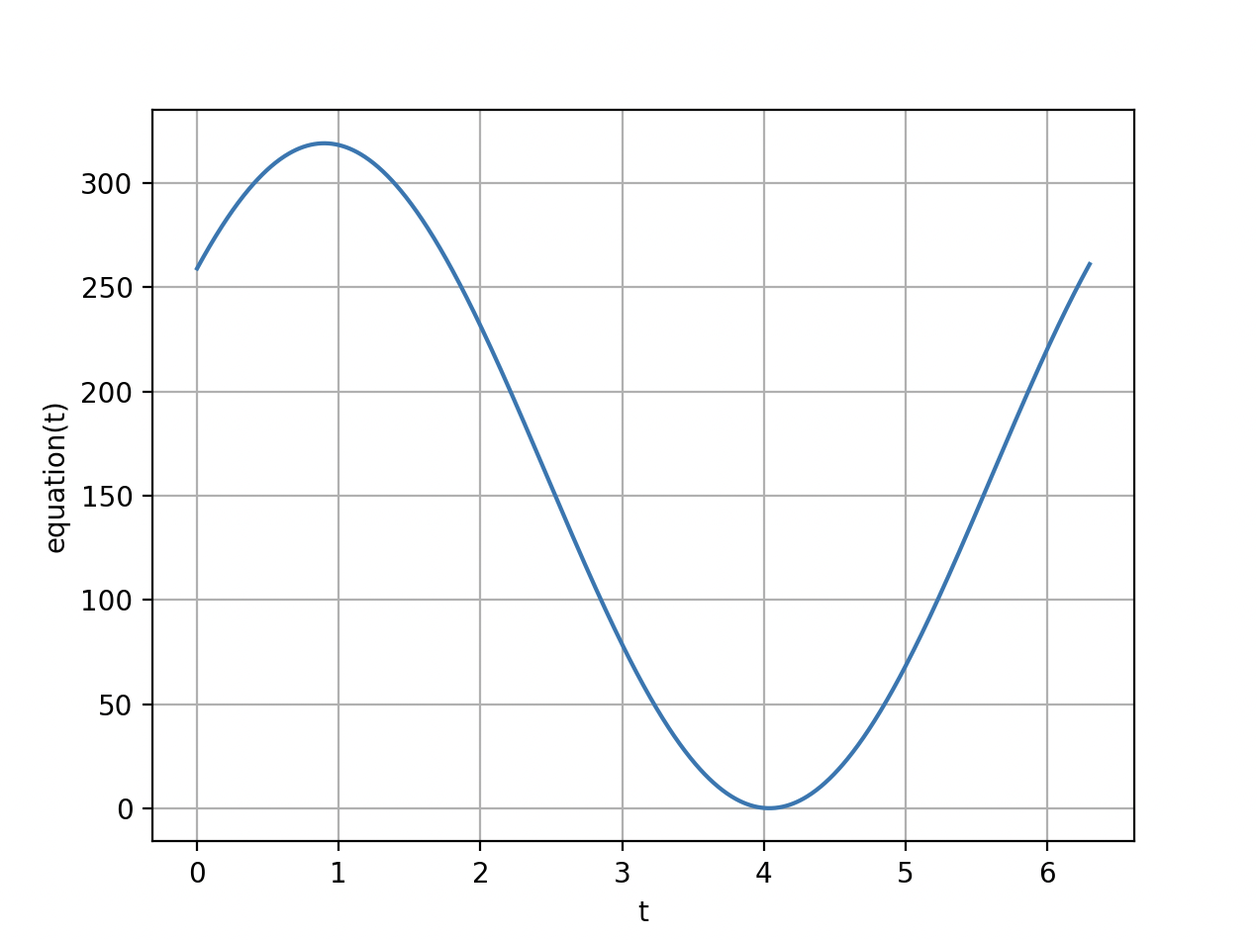
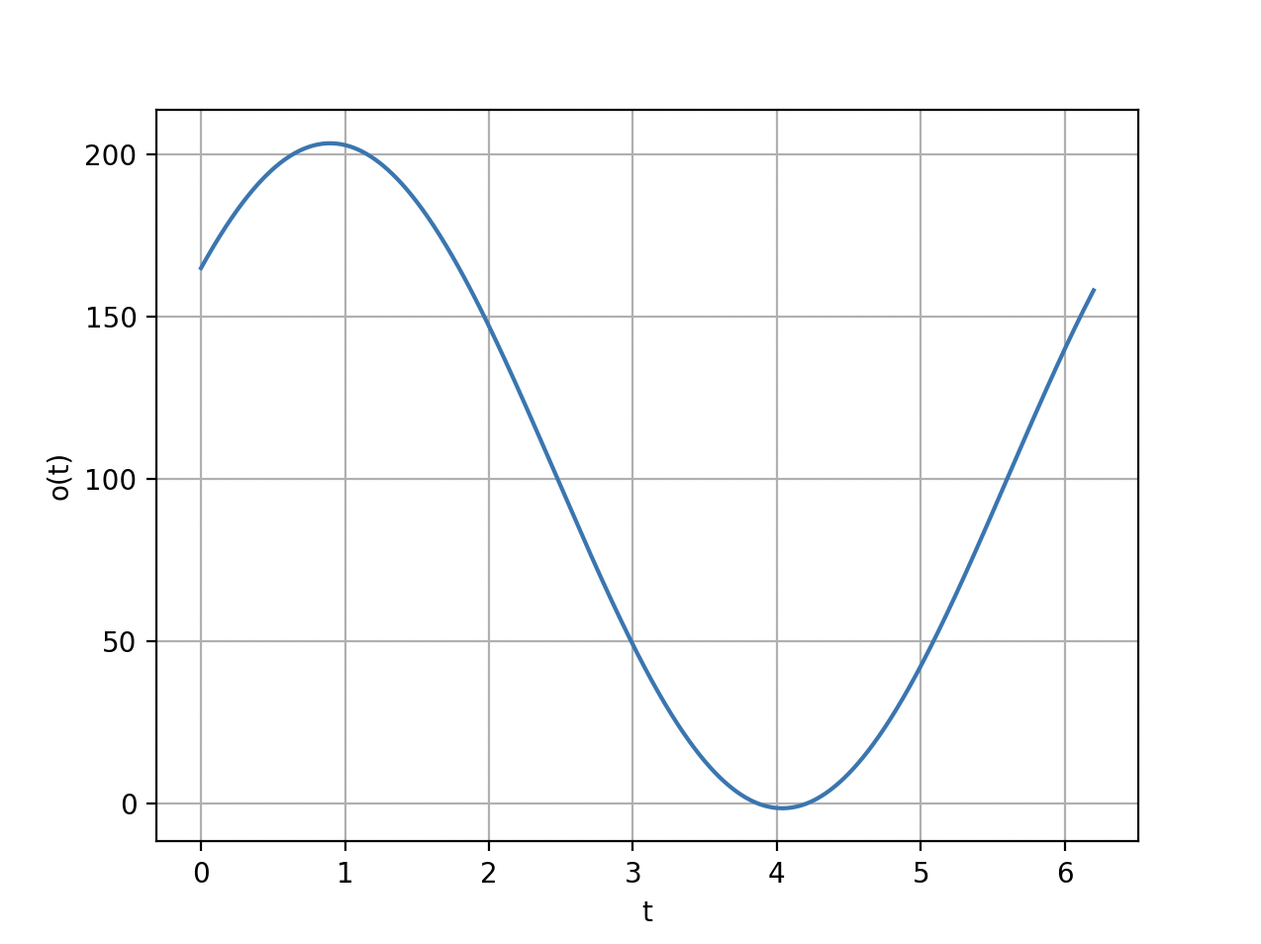
All done

diff --git a/porocilo.tex b/porocilo.tex
@@ -27,29 +27,16 @@
 \newpage
 
 \section{Uvod}
-Algoritem sledenja žarku (\textit{ang. Ray Tracing}) je priljubljen algoritem, uporabljen v 
-računalniški grafiki, ki simulira realistično osvetlitev prizorov. Temelji na ideji sledenja 
-žarka svetlobe po prizoru, izračunavanju njegovega preseka z objekti in odbijanju v drugo smer. 
-Običajno ta algoritem uporabljamo v evklidskem prostoru, saj ta predstavlja resnični svet. 
-Vendar pa lahko algoritem implementiramo tudi v drugih (neevklidskih) prostorih, da dobimo 
-zanimive vizualne rezultate. To bo glavna naloga tega projekta.
+Algoritem sledenja žarku (\textit{ang. Ray Tracing}) je priljubljen algoritem, uporabljen v računalniški grafiki, ki simulira realistično osvetlitev prizorov. Temelji na ideji sledenja žarka svetlobe po prizoru, izračunavanju njegovega preseka z objekti in odbijanju v drugo smer. Običajno ta algoritem uporabljamo v evklidskem prostoru, saj ta predstavlja resnični svet. Vendar pa lahko algoritem implementiramo tudi v drugih (neevklidskih) prostorih, da dobimo zanimive vizualne rezultate. To bo glavna naloga tega projekta.
 
 \section{Cilji}
-Cilj za projektno nalogo, nam je bil narediti program, v katerem se vsak uporabnik (tudi tak, ki 
-ne pozna izvorne kode) lahko vidi razliko med različnimi prostori ki niso evklidski, in 
-jih primerja z evklidskim. Želeli smo si, da bi bilo dodajanje novih prostorov in 
-novih objektov kar se le da enostavno in da na slike nebi bilo potrebno dolgo čakati.
+Cilj za projektno nalogo, nam je bil narediti program, v katerem se vsak uporabnik (tudi tak, ki ne pozna izvorne kode) lahko vidi razliko med različnimi prostori ki niso evklidski, in jih primerja z evklidskim. Želeli smo si, da bi bilo dodajanje novih prostorov in novih objektov kar se le da enostavno in da na slike nebi bilo potrebno dolgo čakati.
 
 
 \section{Sledenje žarkom}
-Predstavljajte si, da ste na vaši najljubši plaži, ki ima razgled na ocean. Ko se ozrete na barko,
-ki potuje proti sončnemu zahodu, boste poleg tega da se barka oddaljuje opazili tudi, da se "pogreza" 
-v tla.
+Predstavljajte si, da ste na vaši najljubši plaži, ki ima razgled na ocean. Ko se ozrete na barko,ki potuje proti sončnemu zahodu, boste poleg tega da se barka oddaljuje opazili tudi, da se "pogreza" v tla.
 
-To je ravno zaradi potovanja žarkov. Ker smo v evklidskem prostoru, bo žarek potoval naravnost in nas 
-zaradi ukrivljenosti Zemlje po določeni razdalji ne bo več dosegel. Sedaj pa si predstavljajmo, 
-da bi lahko barko kljub oddaljevanju še vedno videli celotno. Ta posebna zmožnost bi nam bila 
-omogočena v sferičnem neevklidskem prostoru.
+To je ravno zaradi potovanja žarkov. Ker smo v evklidskem prostoru, bo žarek potoval naravnost in nas zaradi ukrivljenosti Zemlje po določeni razdalji ne bo več dosegel. Sedaj pa si predstavljajmo, da bi lahko barko kljub oddaljevanju še vedno videli celotno. Ta posebna zmožnost bi nam bila omogočena v sferičnem neevklidskem prostoru.
 
 \begin{figure}[H]
     \centering
@@ -58,22 +45,15 @@ omogočena v sferičnem neevklidskem prostoru.
     \label{Slika:Primerjava žarkov evklidski, sferični}
 \end{figure}
 
-Kaj pa pravzaprav je neevklidski prostor? To je prostor, ki ne sledi postulatom evklidske geometrije. 
-Torej prostor ni raven ampak je ukrivljen, vsota kotov v trikotniku je večja ali pa manjša od 
-180 stopinj. Neevklidski prostor delimo na več različnih geometrij med katerimi so 
-hiperbolična geometrija, eliptična geometrija, sferična geometrija, projektivna geometrija itd.
+Kaj pa pravzaprav je neevklidski prostor? To je prostor, ki ne sledi postulatom evklidske geometrije. Torej prostor ni raven ampak je ukrivljen, vsota kotov v trikotniku je večja ali pa manjša od 180 stopinj. Neevklidski prostor delimo na več različnih geometrij med katerimi so hiperbolična geometrija, eliptična geometrija, sferična geometrija, projektivna geometrija itd.
 
 \section{Zasnova projekta in osnovni algoritem sledenja žarkov}
-Želeli smo si načina podajanja objektov in prostorov, ki bi bil dovolj splošen, da lahko brez
-spreminjanja algoritmov dodamo nove.
+Želeli smo si načina podajanja objektov in prostorov, ki bi bil dovolj splošen, da lahko brez spreminjanja algoritmov dodamo nove.
 
 \subsection{Objekti v sceni}
-Posamičen objekt je podan z enačbo, ki sprejme točko v prostoru in vrne vrednost. 
-Enačba je torej oblike
+Posamičen objekt je podan z enačbo, ki sprejme točko v prostoru in vrne vrednost. Enačba je torej oblike
 \[ o(x,y,z): \mathbb{R}^3 \to \mathbb{R} = a \]
-kjer je \(a = 0\) v primeru, da je točka na ploskvi objekta in \( a \neq 0 \) v primeru, da 
-je točka v notranjosti ali zunanjosti objekta.
-Za kroglo s središčem v $(x_{0}, y_{0}, z_{0})$ in polmerom $r$ je to enačba
+kjer je \(a = 0\) v primeru, da je točka na ploskvi objekta in \( a \neq 0 \) v primeru, da je točka v notranjosti ali zunanjosti objekta.Za kroglo s središčem v $(x_{0}, y_{0}, z_{0})$ in polmerom $r$ je to enačba
 \[(x-x_{0})^{2}+(y-y_{0})^{2}+(z-z_{0})^{2}-r^{2}=0, \]
 Za ravnino z normalo \( \vec{n} = [a, b, c]^T \) in točko na ravnini $(x_{0}, y_{0}, z_{0})$ pa:
 \[ ax+by+cz-(ax_0+by_0+cz_0) = 0. \]
@@ -81,17 +61,14 @@ Za ravnino z normalo \( \vec{n} = [a, b, c]^T \) in točko na ravnini $(x_{0}, y
 \subsection{Prostori}
 Vsak prostor implementira funkcijo v obliki
 \[ s_{T, \vec{v}}(t): \mathbb{R} \to \mathbb{R}^3 = [x, y, z]^T \]
-ki vrne točko v prostoru, kjer bi bil žarek, ki gre skozi točko \(T\) v smeri \(\vec{v}\), če 
-ga premaknemo za razdaljo \(t\) po tem prostoru. Na dvodimenzionalni sferi $\mathbb{S}^{2}$ funkcija računa približek, v primeru evklidskega prostora pa je to preprosto premik po premici za korak \(t\)
+ki vrne točko v prostoru, kjer bi bil žarek, ki gre skozi točko \(T\) v smeri \(\vec{v}\), če ga premaknemo za razdaljo \(t\) po tem prostoru. Na dvodimenzionalni sferi $\mathbb{S}^{2}$ funkcija računa približek, v primeru evklidskega prostora pa je to preprosto premik po premici za korak \(t\)
 \[ \vec{T}_{n+1} = \vec{T}_{n} + t \cdot \vec{v} \]
 \bigskip
 \newline
 Sledenje žarkom na ploščatem torusu in dvodimenzionalni sferi sta podrobneje opisana kasneje.
 
 \subsection{Generiranje žarkov}
-Žarek je definiran z začetno točko \(T_{0}\) in enotskim smernim vektorjem \(\vec{v}\) (začetna pozicija in smer). Ker smo si želeli, da 
-širino kadra (ang. Field of View, v nadaljevanju FOV) podamo v stopinjah kota, ki ga kamera vidi po diagonali kadra,
-smo žarke generirali po postopku:
+Žarek je definiran z začetno točko \(T_{0}\) in enotskim smernim vektorjem \(\vec{v}\) (začetna pozicija in smer). Ker smo si želeli, da širino kadra (ang. Field of View, v nadaljevanju FOV) podamo v stopinjah kota, ki ga kamera vidi po diagonali kadra, smo žarke generirali po postopku:
 
 \begin{enumerate}
   \item Vsi žarki imajo začetno točko \(T_{0}\) na poziciji kamere.
@@ -104,16 +81,13 @@ smo žarke generirali po postopku:
   \end{figure}
   \item Izračunamo kot da se premaknemo za eno vrstico pikslov v horizontalni in vertikalni smeri:
   \[\Delta u = \frac{FOV_u}{RES_u};  \Delta v = \frac{FOV_v}{RES_v} \] 
-  kjer sta \(RES_u\) in \(RES_v\) ločljivost slike v pihskih po vertikali in horizontali. 
-  \( \Delta u \) in \( \Delta v \) sta dejansko enaka, ker so piksli kvadratni.
+  kjer sta \(RES_u\) in \(RES_v\) ločljivost slike v pihskih po vertikali in horizontali. \( \Delta u \) in \( \Delta v \) sta dejansko enaka, ker so piksli kvadratni.
   \begin{figure}[H]
     \centering
     \includegraphics[width=0.25\linewidth]{Images/premik_fovu.png}
     \label{Slika:premik_fovu}
   \end{figure}
-  \item Smer žarkov je vektor od pozicije kamere, do točke na enotski sferi z centrom na poziciji kamere. Vsak žarek, 
-  ima azimut \[ v = -FOV_v/2 + j \cdot \Delta v \] in elevacijo \[ u = FOV_u/2 - i \cdot \Delta u \cdot \cos(v) \]
-  kjer je \( i \) številka vrstice in \( j \) številka stolpca piksla katerega barvo računa ta žarek. \newline
+  \item Smer žarkov je vektor od pozicije kamere, do točke na enotski sferi z centrom na poziciji kamere. Vsak žarek, ima azimut \[ v = -FOV_v/2 + j \cdot \Delta v \] in elevacijo \[ u = FOV_u/2 - i \cdot \Delta u \cdot \cos(v) \] kjer je \( i \) številka vrstice in \( j \) številka stolpca piksla katerega barvo računa ta žarek. \newline
   Pri \( u \) smo upoštevali popravek za distorzijo, ki nastane zaradi določanja žarkov s pomočjo sfere.
   \begin{figure}[H]
     \centering
@@ -143,21 +117,17 @@ Postopek nam je omogoči določanje kota kadra v stopinjah in preprosto nastavlj
   \end{minipage}
   \end{figure}
 
-Zgoraj je primerjava slike prostora ploščati torus, kjer je širina kadra ekvivalentna 14mm objektivu. Na levi je 
-prikazana slika, ki ne upošteva popravka za distorzijo (korak 5), na desni pa je slika, ki ga upošteva.
+Zgoraj je primerjava slike prostora ploščati torus, kjer je širina kadra ekvivalentna 14mm objektivu. Na levi je prikazana slika, ki ne upošteva popravka za distorzijo (korak 5), na desni pa je slika, ki ga upošteva.
 
-Opazimo lahko, da so horizontalne črte na desni sliki dejansko horizontalne, medtem ko so na levi sliki 
-ukrivljene. Ker je kader usmerjen za 10 stopinj navzgor, se vertikalne črte na robovih ukrivijo navznoter, 
-kar je pojav, ki se zgodi tudi na pravih kamerah.
+Opazimo lahko, da so horizontalne črte na desni sliki dejansko horizontalne, medtem ko so na levi sliki ukrivljene. Ker je kader usmerjen za 10 stopinj navzgor, se vertikalne črte na robovih ukrivijo navznoter, kar je pojav, ki se zgodi tudi na pravih kamerah.
 
 
 \subsection{Sledenje žarkom}
 Osnovni algoritem sledenja žarkov je sledeč:
 
 \begin{enumerate}
-\item V poljubnem prostoru premikamo žarek s pomočjo enačbe \( s(t) = [x, y, z]^T \) za korak velikosti $h$.
-\item Za vsak objekt, s pomočjo njegove enačbe \( o(x, y, z) = a \) preverimo, če je žarek prešel skozi ploskev 
-objekta (če je \( a \) spremenil predznak).
+\item V poljubnem prostoru premikamo žarek s pomočjo enačbe \( s_{T \vec{v}}(t) = [x, y, z]^T \) za korak velikosti $h$.
+\item Za vsak objekt, s pomočjo njegove enačbe \( o(x, y, z) = a \) preverimo, če je žarek prešel skozi ploskev objekta (če je \( a \) spremenil predznak).
 \item Če je za nek objekt \( a \) spremenil predznak, razpolovimo korak \( h = h/2 \) in ponovimo korak.
 \item Postopek razpolavljanja ponavljamo, dokler korak ni manjši od \( \varepsilon \).
 \end{enumerate}
@@ -170,15 +140,12 @@ objekta (če je \( a \) spremenil predznak).
 \end{figure}
 
 \subsection{Računanje barve piksla}
-Vsak žarek obarvamo z barvo objekta s katerim se je sekal, oziroma črno, če se ni z nobenim. Za senčenje moramo
-poslati še en žarek od presečišča proti luči. 
+Vsak žarek obarvamo z barvo objekta s katerim se je sekal, oziroma črno, če se ni z nobenim. Za senčenje moramo poslati še en žarek od presečišča proti luči. 
 \begin{enumerate}
   \item Poiščemo vektor, ki gre v smeri od presečišča do luči: 
   \[ \vec{v} = \frac{\vec{r}_{l} - \vec{r}_{p}}{||\vec{r}_{l} - \vec{r}_{p}||} \]
   Kjer je \( \vec{r}_{l} \) krajevni vektor luči, \( \vec{r}_{p} \) pa krajevni vektor presečišča.
-\item Če žarek, ki se začne v točki presečišča in gre v smeri \( \vec{v} \), seka kakšen objekt preden 
-    prepotuje razdaljo do luči 
-  \( d = ||\vec{r}_{l} - \vec{r}_{p}||\), potem je presečišče v senci.
+\item Če žarek, ki se začne v točki presečišča in gre v smeri \( \vec{v} \), seka kakšen objekt preden prepotuje razdaljo do luči \( d = ||\vec{r}_{l} - \vec{r}_{p}||\), potem je presečišče v senci.
 \end{enumerate}
 
 
@@ -186,14 +153,9 @@ poslati še en žarek od presečišča proti luči.
 
 V evklidskem prostoru je potovanje žarkov preprosto premik po premici: 
 \[ \vec{T}_{n+1} = \vec{T}_{n} + t \cdot \vec{v} \]
-Žarki potujejo naravnost, kot smo navajeni. Algoritem sledenja žarkov je enak 
-kot v primeru ploščatega torusa, le da žarkov ni potrebno preslikati. 
+Žarki potujejo naravnost, kot smo navajeni. Algoritem sledenja žarkov je enak kot v primeru ploščatega torusa, le da žarkov ni potrebno preslikati. 
 
-Odločili smo se, da bodo žarki od presečišča z objektom do luči potovali kar po evklidskem prostoru. 
-To odločitev smo sprejeli, ker bi bilo v neevklidskih prostorih zelo težko implementirati algoritem, 
-ki žarek pošlje po vseh poteh, ki vodijo do vsaj ene luči. Zadovoljiti bi se morali z algoritmom,
-ki žarke pošilja v razne smeri in upa, da bo vsaj en žarek prišel do luči, če pot do nje obstaja. 
-Implementacija tega predstavlja izboljšavo, ki bi jo lahko dodali v prihodnosti.
+Odločili smo se, da bodo žarki od presečišča z objektom do luči potovali kar po evklidskem prostoru. To odločitev smo sprejeli, ker bi bilo v neevklidskih prostorih zelo težko implementirati algoritem, ki žarek pošlje po vseh poteh, ki vodijo do vsaj ene luči. Zadovoljiti bi se morali z algoritmom,ki žarke pošilja v razne smeri in upa, da bo vsaj en žarek prišel do luči, če pot do nje obstaja. Implementacija tega predstavlja izboljšavo, ki bi jo lahko dodali v prihodnosti.
 
 \begin{figure}[H]
   \centering
@@ -202,8 +164,7 @@ Implementacija tega predstavlja izboljšavo, ki bi jo lahko dodali v prihodnosti
   \label{Slika:Euklidski prostor}
 \end{figure}
 
-Na sceni kamera gleda v krogle obrnjena za 10 stopinj navzgor. Enaka scena 
-bo uprizorjena tudi v drugih prostorih.
+Na sceni kamera gleda v krogle obrnjena za 10 stopinj navzgor. Enaka scena bo uprizorjena tudi v drugih prostorih.
 
 \section{\texorpdfstring{Sledenje žarkom na ploščatem torusu \( \mathbb{T}_{pl}^{3} \)}{Sledenje žarkom na prostoru ploščati torusu}}
 
@@ -286,13 +247,9 @@ Ko program poženemo, dobimo lep vizualni rezultat.
     \caption{Rezultat "ray tracinga" za tri dimenzionalni ploščati torus (500 preslikanj), kjer scena nima ravnine.}
     \label{Slika:Rezultat "ray tracinga" za tri dimenzionalni flat torus}
 \end{figure}
-Na sliki lahko opazimo podoben efekt tistemu v hišah iluzij, ko smo v sobi polni ogledal. Razlika je v tem, 
-da se tu žarki ne odbijejo, temveč "teleportirajo" na drugo stran scene, zato slika ni simetrična. Na levi strani slike 
-lahko opazujemo sceno, kot bi izgledala, če bi jo gledali bolj z desne strani, na desni pa kot da bi jo gledali z leve.
+Na sliki lahko opazimo podoben efekt tistemu v hišah iluzij, ko smo v sobi polni ogledal. Razlika je v tem, da se tu žarki ne odbijejo, temveč "teleportirajo" na drugo stran scene, zato slika ni simetrična. Na levi strani slike lahko opazujemo sceno, kot bi izgledala, če bi jo gledali bolj z desne strani, na desni pa kot da bi jo gledali z leve.
 
-Izrišejo se tudi distinktne črte. Nekateri žarki, ki so kljub velikemu številu preslikavanj
-(v tem primeru 500) še vseeno črni, se ne bodo nikoli srečali z objektom, ker gredo v smer, ki je povsem vzporedna
-z objekti v "sosednjih" scenah.
+Izrišejo se tudi distinktne črte. Nekateri žarki, ki so kljub velikemu številu preslikavanj (v tem primeru 500) še vseeno črni, se ne bodo nikoli srečali z objektom, ker gredo v smer, ki je povsem vzporedna z objekti v "sosednjih" scenah.
 
 \section{\texorpdfstring{Sledenje žarkom na dvodimenzionalni sferi \( \mathbb{S}^2 \)}{Sledenje žarkom na dvodimenzionalni sferi}}
 Žarek na dvodimenzionalni sferi bo potoval po najravnejši poti, tj. geodetki, kjer je majhen korak v \( uv \) ravnini opisan s sistemom dveh diferencialnih enačb drugega reda.
@@ -303,8 +260,7 @@ z objekti v "sosednjih" scenah.
     \end{split}
 \end{equation}
 
-Po krivulji se bomo v nadaljnjih algorimih premikali s pomočjo aproksimacijskih metod, zato moramo sistem DE drugega reda preoblikovati v
-sistem DE prvega reda. Za to uvedemo 4 nove spremenljivke
+Po krivulji se bomo v nadaljnjih algorimih premikali s pomočjo aproksimacijskih metod, zato moramo sistem DE drugega reda preoblikovati v sistem DE prvega reda. Za to uvedemo 4 nove spremenljivke
 \begin{equation}
 \begin{split}
     &y_{1}=u, \quad y_{2}=\frac{dy_{1}}{dt}, \\
@@ -320,8 +276,7 @@ Dobimo sistem 4 DE prvega reda
     &\frac{dy_{4}}{dt}=-2\cot(y_{1})y_{2}y_{4}
 \end{split}
 \end{equation}
-Ker se bomo premikali po \( uv \) ravnini, moramo koordinate v kartezičnem koordinatnem sistemu transformirati v parametra \( u \) in \( v \). Sfera v \(\mathbb{R}^3\) je
-parametrizirana kot
+Ker se bomo premikali po \( uv \) ravnini, moramo koordinate v kartezičnem koordinatnem sistemu transformirati v parametra \( u \) in \( v \). Sfera v \(\mathbb{R}^3\) je parametrizirana kot
 \begin{equation} \label{e:toXYZ}
     \begin{split}
         &X=R\cos(v)\sin(u) \\
@@ -536,10 +491,7 @@ Sceno iz sekvence lahko vidimo na \hyperref[fig:2sphRays2]{sliki žarkov}, kjer 
 \end{figure}
 
 
-Pomembno je omeniti tudi, da v primeru velikih radijev sfer, po katerih se premikajo žarki, prostor izgleda manj popačeno \ref{fig:2sphere R=25}. 
-Slike scene v neevklidskih prosorih vidimo na \ref{fig:Speedup 2sphere scene} in \ref{fig:Speedup euclidean scene}. V dvodimenzionalni sferi, kjer je radij sfere 25, izgleda skoraj kot da bi kamero usmerili v tla. To je 
-ponovno posledica dejstva, da objekti pred nami v sliko vstopajo od zgoraj. Opazimo pa tudi, da je krogla na \hyperref[fig:2sphere R=25]{sliki} 
-uprizorjena, kot da bi jo gledali z višje točke, kar je posledica ukrivljanja žarkov navzdol.
+Pomembno je omeniti tudi, da v primeru velikih radijev sfer, po katerih se premikajo žarki, prostor izgleda manj popačeno \ref{fig:2sphere R=25}. Slike scene v neevklidskih prosorih vidimo na \ref{fig:Speedup 2sphere scene} in \ref{fig:Speedup euclidean scene}. V dvodimenzionalni sferi, kjer je radij sfere 25, izgleda skoraj kot da bi kamero usmerili v tla. To je ponovno posledica dejstva, da objekti pred nami v sliko vstopajo od zgoraj. Opazimo pa tudi, da je krogla na \hyperref[fig:2sphere R=25]{sliki} uprizorjena, kot da bi jo gledali z višje točke, kar je posledica ukrivljanja žarkov navzdol.
 
 \begin{figure} [H]
     \centering
@@ -549,8 +501,7 @@ uprizorjena, kot da bi jo gledali z višje točke, kar je posledica ukrivljanja 
 \end{figure}
 
 \section{Primerjava metode sledenje žarku v evklidskem in neevklidskem prostoru}
-Primerjamo enako pozicijo kamere in enako postavitev objektov v prostoru v evklidskem in dveh neevklidskih prostorih. Postavitev objektov je enaka kot
-na \hyperref[fig:2sphRays2]{sliki žarkov}. Za razliko od evklidskega prostora pri torusu opazimo podvojene objekte, kjer pričakujemo, da bi z večjim številom korakov bilo čedalje manj črnih pikslov. Pri dvodimenzionalni sferi, pri dani postavitvi modre krogle še ne vidimo, rdeča pa je precej popačena. Ploskev pod kroglama je nagnjena, zato pri dvodimenzionalni sferi opazimo, da je spodnji žarki ne zadanejo več.
+Primerjamo enako pozicijo kamere in enako postavitev objektov v prostoru v evklidskem in dveh neevklidskih prostorih. Postavitev objektov je enaka kot na \hyperref[fig:2sphRays2]{sliki žarkov}. Za razliko od evklidskega prostora pri torusu opazimo podvojene objekte, kjer pričakujemo, da bi z večjim številom korakov bilo čedalje manj črnih pikslov. Pri dvodimenzionalni sferi, pri dani postavitvi modre krogle še ne vidimo, rdeča pa je precej popačena. Ploskev pod kroglama je nagnjena, zato pri dvodimenzionalni sferi opazimo, da je spodnji žarki ne zadanejo več.
 \begin{figure}[H]
 \centering
 \begin{minipage}[t]{.33\textwidth}
@@ -594,27 +545,22 @@ Opazimo naslednji težavi:
 \end{figure}
 
 Še enkrat se spomnimo, kaj je naš problem. Iščemo najmanjši parameter \( t \), za katerega velja:
-\[ f = o(s(t)) = 0 \]
-\( o([x, y, z]) = a \) je funkcija (kateregakoli) objekta v sceni, ki je enaka 0 samo, ko je 
-točka \([x, y, z]\) na objektu. 
-\( s(t, T, \vec{v}) = [x, y, z] \) je funkcija, ki vrne točko v prostoru, kjer se nahaja žarek z izhodiščem v \( T_0\) in smerjo 
-\( \vec{v} \) ob času \( t \).
+\[ f = o(s_{T \vec{v}}(t)) = 0 \]
+\( o([x, y, z]) = a \) je funkcija (kateregakoli) objekta v sceni, ki je enaka 0 samo, ko je točka \([x, y, z]\) na objektu. \( s_{T, \vec{v}}(t) = [x, y, z] \) je funkcija, ki vrne točko v prostoru, kjer se nahaja žarek z izhodiščem v \( T_0\) in smerjo \( \vec{v} \) ob času \( t \).
 
 
-Da bolje razumemo problem, si poglejmo par grafov, ki prikazujejo kako se 
-"razdalja" do oranžne krogle (vrednost funkcije \( o(t) \)) spreminja glede na razdaljo žarka od 
-kamere (vrednost \( t \)) v evklidskem prostoru in prostoru dvodimenzionalna sfera. V sredini slike je obkrožen piksel katerega žarek spremljamo.
+Da bolje razumemo problem, si poglejmo par grafov, ki prikazujejo kako se "razdalja" do oranžne krogle (vrednost funkcije \( o(t) \)) spreminja glede na razdaljo žarka od kamere (vrednost \( t \)) v evklidskem prostoru in prostoru dvodimenzionalna sfera. V sredini slike je obkrožen piksel katerega žarek spremljamo.
 
 \begin{figure}[H]
   \centering
-  \begin{minipage}[t]{.4\textwidth}
+  \begin{minipage}[t]{.7\textwidth}
     \centering
     \includegraphics[width=1\linewidth]{Images/speedup_euclidean_scene.png}
     \captionof{figure}{Scena, ki jo bomo pospeševali v evklidskem prostoru}
     \label{fig:Speedup euclidean scene}
   \end{minipage}%
-  \hspace{0.04\textwidth} % Added horizontal space
-  \begin{minipage}[t]{.4\textwidth}
+  \vspace{0.04\textwidth} % Added horizontal space
+  \begin{minipage}[t]{.7\textwidth}
     \centering
     \includegraphics[width=1\linewidth]{Images/speedup_2sphere_scene.png}
     \captionof{figure}{Scena, ki jo bomo pospeševali v dvodimenzionalni sferi}
@@ -624,23 +570,25 @@ kamere (vrednost \( t \)) v evklidskem prostoru in prostoru dvodimenzionalna sfe
 
 \begin{figure}[H]
   \centering
-  \begin{minipage}[t]{.4\textwidth}
+  \begin{minipage}[t]{.9\textwidth}
     \centering
     \includegraphics[width=1\linewidth]{Images/speedup_euclidean_graph.png}
-    \captionof{figure}{Graf o(t) za evklidski prostor}
-    \label{fig:Speedup euclidean graph}
-  \end{minipage}%
-  \hspace{0.04\textwidth} % Added horizontal space
-  \begin{minipage}[t]{.4\textwidth}
+    \caption{Graf funkcije o(t), ki meri "oddaljenost" objekta od žarka, ob času t v evklidskem prostoru}
+    \label{fig:Speedup_euclidean_graph}
+  \end{minipage}
+  
+  \vspace{0.5cm} % Added vertical space between the figures
+  
+  \begin{minipage}[t]{.9\textwidth}
     \centering
     \includegraphics[width=1\linewidth]{Images/speedup_2sphere_graph.png}
-    \captionof{figure}{Graf o(t) za dvodimenzionalno sfero}
-    \label{fig:Speedup 2sphere graph}
+    \caption{Graf funkcije o(t), ki meri "oddaljenost" objekta od žarka, ob času t v dvodimenzionalni sferi}
+    \label{fig:Speedup_2sphere_graph}
   \end{minipage}
 \end{figure}
 
-Hitro nam postane jasno, da razdalja žarka sledi funkciji, ki ima 0, 1, ali 2 ničli (za dvodimenzionalno sfero iščemo le na intervalu \(t \in [0, 2\pi] \)). 
-Imamo le en minimum za katerega velja, da če je večji od 0, se žarek objekta nikoli ne bo dotaknil.
+
+Hitro nam postane jasno, da razdalja žarka sledi funkciji, ki ima 0, 1, ali 2 ničli (za dvodimenzionalno sfero iščemo le na intervalu \(t \in [0, 2\pi] \)). Imamo le en minimum za katerega velja, da če je večji od 0, se žarek objekta nikoli ne bo dotaknil.
 
 Implementirali smo naslednje izboljšave osnovnega algoritma:
 \begin{itemize}
@@ -651,9 +599,7 @@ Implementirali smo naslednje izboljšave osnovnega algoritma:
 
 \subsection{Pohitritev iskanja presečišč za evklidski prostor in ploščati torus} \label{speedup1}
 
-Ideja je preprosta. Zakaj bi delali iterativne korake, če lahko preprosto izpeljemo 
-formulo za izračun parametra \( t \) za katerega velja \( f = 0 \)? Tako presečišče 
-najdemo v času odvisnem le od števila objektov v sceni.
+Ideja je preprosta. Zakaj bi delali iterativne korake, če lahko preprosto izpeljemo formulo za izračun parametra \( t \) za katerega velja \( f = 0 \)? Tako presečišče najdemo v času odvisnem le od števila objektov v sceni.
 
 Ploščati torus uporablja kar formulo za presečišče iz evklidskega prostora, le da žarke še preslika, če pridejo do roba torusa.
 
@@ -661,9 +607,7 @@ Ploščati torus uporablja kar formulo za presečišče iz evklidskega prostora,
 
 Za prostor dvodimenzionalna sfera smo našli rešitev, ki je hitrejša od iterativnega pristopa aproksimacij premikov po geodetkah.
 
-Vsak žarek gre namreč čez vrh in dno sfere. Žarek parametriziramo, kot točko na sferi. Za žarek poiščemo center 
-krogle \( [x_0, y_0, z_0] \), kot smo ga prej in za preslikavo na $uv$ ravnino uporabimo enačbi \ref{e:toU} in \ref{e:toV}. 
-Parametrizacija žarka \(s(t)\) je torej:
+Vsak žarek gre namreč čez vrh in dno sfere. Žarek parametriziramo, kot točko na sferi. Za žarek poiščemo center krogle \( [x_0, y_0, z_0] \), kot smo ga prej in za preslikavo na $uv$ ravnino uporabimo enačbi \ref{e:toU} in \ref{e:toV}. Parametrizacija žarka \(s_{T \vec{v}}(t)\) je torej:
 
 \begin{equation}
   \begin{split}
@@ -673,20 +617,15 @@ Parametrizacija žarka \(s(t)\) je torej:
   \end{split}
 \end{equation}
 
-Parametrizacija za razliko od prejšnje ne računa približkov, ampak točno rešitev za katerokoli velikost koraka. 
-Zato jo lahko uporabimo v algoritmu\ref{subsec:pohitren_algoritem}.
+Parametrizacija za razliko od prejšnje ne računa približkov, ampak točno rešitev za katerokoli velikost koraka. Zato jo lahko uporabimo v algoritmu\ref{subsec:pohitren_algoritem}.
 
 \section{Časovna zahtevnost algoritmov}
 Algoritmi brez pohitritev so bili implementirani v Matlabu, hitrejše različice pa v Pythonu. Sliko dimenzij 700x500 pri 1000 iteracijah smo v Matlabu za vse prostore generirali v približno 6min, kjer je Matlab v dvodimenzionalni sferi $\mathbb{S}^{2}$ porabil približno 30s več. V Pythonu smo z implementiranim multithreadingom za enako situacijo v evklidksem prostoru in na torusu potrebovali približno 2min. V nadaljevanju smo uporabljali pohitritve opisane v \ref{speedup1} in \ref{speedup2}.  Za evklidski prostor smo tako potrebovali 2,8s, na torusu, kjer smo dopuščali 100 preslikav pa 25,2s. Slika za dvodimenzionalno sfero je po pohitritvi potrebovala 2min.
 
 \section{Zaključek}
-Naš cilj je bil narediti program, v katerem se vsak uporabnik lahko igra z različnimi neevklidskimi
-prostori in jih vizualizira. To nam je uspelo. Uspelo nam je tudi pospešiti program do te mere, da 
-na slike v dokaj visoki resoluciji ni potrebno čakati več kot nekaj deset sekund. Na slike v evklidskem 
-prostoru pa, za 1500 x 1000 sliko, celo manj kot 10 sekund.
+Naš cilj je bil narediti program, v katerem se vsak uporabnik lahko igra z različnimi neevklidskimi prostori in jih vizualizira. To nam je uspelo. Uspelo nam je tudi pospešiti program do te mere, da na slike v dokaj visoki resoluciji ni potrebno čakati več kot nekaj deset sekund. Na slike v evklidskem prostoru pa, za 1500 x 1000 sliko, celo manj kot 10 sekund.
 
-Sicer obstaja še marsikatera optimizacija in funkcionalnost, ki bi jo lahko dodali,
-na primer možnosti dodajanja materialov in boljši algoritem senčenja.
+Sicer obstaja še marsikatera optimizacija in funkcionalnost, ki bi jo lahko dodali, na primer možnosti dodajanja materialov in boljši algoritem senčenja.
 
 Eden izmed ciljev je bil tudi enostavno dodajanje novih objektov in prostorov:
 

diff --git a/Code/main.py b/Code/main.py
@@ -22,11 +22,18 @@ Scene.configure({"sphere": Sphere((7, 0, 0), 2, (255, 145, 71)),
                   "sphere2": Sphere((6.7, -2.3, -3.5), 0.7, (198, 91, 124)), 
                   "plane": Plane((0, -3, 0), (0, 1, 0), (200, 200, 200)),
                   "light": Light((0, 6, 8)), 
-                  "camera": Camera((0 , 0, 0), (0, 0, 0), (700, 500), 114), # (-4 -1.5, 0), (o, 10, 0), 84
-                  "euclidean": Euclidean()})
+                  "camera": Camera((2 , 4, 0), (0, 0, 0), (175, 125), 127), # (-4 -1.5, 0), (o, 10, 0), 84
+                  "twosphere": TwoSphere(8)})
+# Scene.configure({"sphere": Sphere((7, 0, 0), 2, (255, 145, 71)), 
+#                  "sphere1": Sphere((4.5, 1.6, 2), 0.5, (79, 158, 245)), 
+#                   "sphere2": Sphere((6.7, -2.3, -3.5), 0.7, (198, 91, 124)), 
+#                   "plane": Plane((0, -3, 0), (0, 1, 0), (200, 200, 200)),
+#                   "light": Light((0, 6, 8)), 
+#                   "camera": Camera((-4 , -1.5, 0), (0, 10, 0), (175, 125), 114), # (-4 -1.5, 0), (o, 10, 0), 84
+#                   "euclidean": Euclidean()})
 
 from ui import _UIThread
-_UIThread.configure(1)
+_UIThread.configure(5)
 
 # IMPORTS
 from working import Working

diff --git a/Code/spaces.py b/Code/spaces.py
@@ -197,8 +197,8 @@ class TwoSphere(_Space):
 
     # Equation stuff
     def xyz_equation(self, ray: Ray, t: float) -> np.ndarray: #TODO Tukej bi naredu memorizacijo, in u in v zračunu iz podanga raya ker (če kamera ne gleda naravnost) ta k je znotrej raya ni pravi.
-        u, v = vector_uvw.vector_to_degrees(ray.direction)
-        # u, v = ray.direction_deg[:2]
+        # u, v = vector_uvw.vector_to_degrees(ray.direction)
+        u, v = ray.direction_deg[:2]
         vector_to_center = vector_uvw.degrees_to_vector((u, v - 90)) # Vektor ki gre od točke prot centru "sfere"
         sphere_center = ray.origin + vector_to_center * self.R # Za R proti središču sfere od točke na sferi je center
 

diff --git a/Code/ui.py b/Code/ui.py
@@ -161,7 +161,7 @@ class _UIThread():
     def plot(self, t_values: np.ndarray, dist_values: np.ndarray):
         plt.plot(t_values, dist_values, label=f"eq(t)")
         plt.xlabel('t')
-        plt.ylabel('equation(t)')
+        plt.ylabel('o(t)')
         plt.grid(True)
         plt.show(block=True)
         exit(0)
